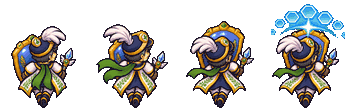
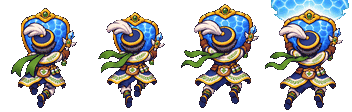
응가 팩: 할아버지 비행 스프라이트 v2 + 일반 공격(창) 때 공격 프레임 표시 (이전엔 필살기 때만 보였음 · 케이크 버전 그대로) — 인게임 프레임 전환 60/60 일치
Claude-Session: https://claude.ai/code/session_011LWBdaMrjA1BLGjF6h5PmT

diff --git a/src/sky/engine.ts b/src/sky/engine.ts
@@ -11,7 +11,7 @@
  *   - 소리는 Web Audio 버퍼 재사용 (audio.ts) — HTMLAudio 복제 재생 제거
  */
 import { type Assets, type V2Name, type CutinId, type StageArt, whiteOf } from './assets';
-import { familyText } from './theme';
+import { familyText, THEME_ID } from './theme';
 import { STAGES, DIFF, ENEMIES, type StageDef, type Difficulty, type DiffDef, type EnemyName, type Move, type Fire, type ArtName, type BossDef, type Attack, type Step, type Wave } from './stages';
 import { bulletLooks, type BulletLook } from './bullets';
 import { CHARACTERS } from './data/characters';
@@ -1051,6 +1051,7 @@ export class SkyEngine {
         this.cN = 0;
         this.newPB(this.cx + 4, this.cy - 16, 0, -240, 3, 2.6, 'lance', true, 1.4);
         sfx('compShot', 0.8, 0.8);
+        if (THEME_ID === 'poop') this.cKick = 1; // 응가 팩: 창을 쏠 때 방패 밀기(공격 프레임 2·3)를 보여 줌 (케이크 버전 동작은 그대로)
       }
       // 동료 자동 보호막 없음 — 일반 공격에서 상시 무적 금지 (보호는 필살기 중에만)
       return;

diff --git a/docs/sky-reboot/credit-log.md b/docs/sky-reboot/credit-log.md
@@ -16,3 +16,4 @@
 | 9 | 할머니 화난 얼굴 (필살기 컷인용 상반신) | GPT Image 2.6 medium 2k 투명 2:3 + 할머니 원화 | 1 | 1 | 9 |
 | 10 | 엄마 비행 시트 v2 (사용자 확정 프롬프트) | GPT Image 2.6 medium 2k 투명 21:9 + 엄마 원화 | 1 | 1 | 10 |
 | 11 | 아빠 비행 시트 v2 (엄마 확정 프롬프트 틀) | 같은 설정 + 아빠 원화 | 1 | 1 | 11 |
+| 12 | 할아버지 비행 시트 v2 (엄마 확정 프롬프트 틀) | 같은 설정 + 할아버지 원화 | 1 | 1 | 12 |
